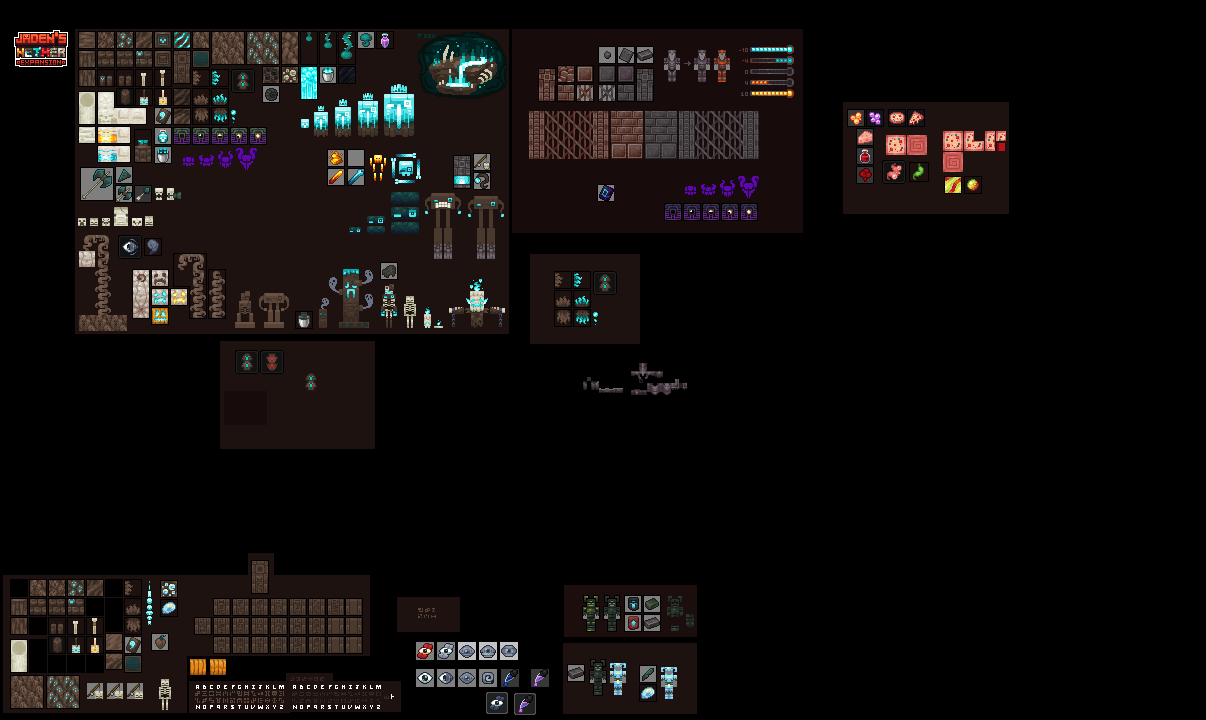
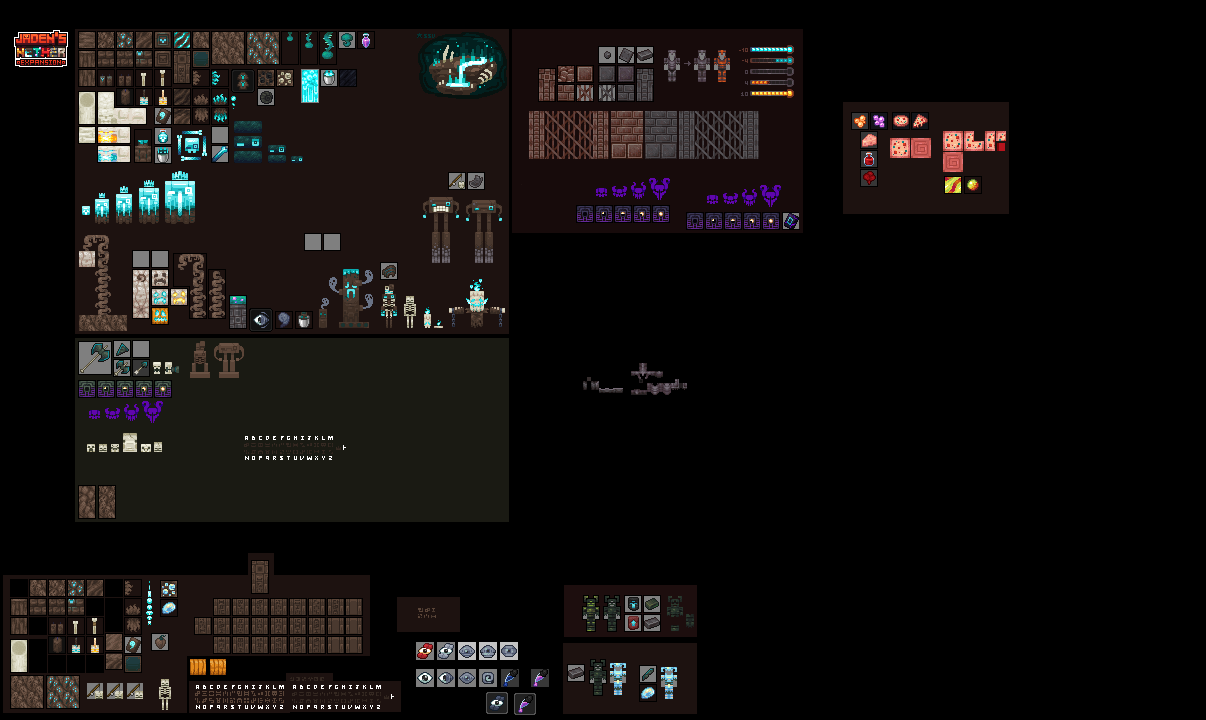
Glowing Textures & Cloth Config Fix
Added
-Glowmasks to certain Mobs

Changes
-Unbounded Speed's color has been made brighter
-Blightspores' texture was updated
-Geyser Cooldown Delay Ticks is now just Geyser Cooldown Ticks

Removed
-Opalized Fossil Ore

Fixes
-Cricket Music Disc now plays as intended
-Crash if you didn't have a Config API installed
-Crash when stacked soul swirls config was enabled (the config has been removed)

Frontend
-Nether Expansion sheet has been updated
-Stampede WIP Model is in frontend now

diff --git a/src/main/java/net/jadenxgamer/netherexp/registry/block/custom/SoulSwirlsBlock.java b/src/main/java/net/jadenxgamer/netherexp/registry/block/custom/SoulSwirlsBlock.java
@@ -23,6 +23,8 @@ import net.minecraft.util.math.random.Random;
 import net.minecraft.world.World;
 import net.minecraft.world.WorldView;
 
+import java.util.Objects;
+
 public class SoulSwirlsBlock
 extends AmethystClusterBlock
 implements Fertilizable {
@@ -37,12 +39,13 @@ implements Fertilizable {
     @SuppressWarnings("deprecation")
     @Override
     public void onEntityCollision(BlockState state, World world, BlockPos pos, Entity entity) {
-        if (!state.get(COOLDOWN) && entity instanceof LivingEntity) {
-            ((LivingEntity) entity).addStatusEffect(new StatusEffectInstance(ModStatusEffects.UNBOUNDED_SPEED, 1200, 0), entity);
+        if (!state.get(COOLDOWN) && entity instanceof LivingEntity && NetherExp.getConfig().blocks.soulSwirlsConfigs.soul_swirls_boosting) {
+            int d = NetherExp.getConfig().blocks.soulSwirlsConfigs.unbounded_speed_duration * 20;
+            ((LivingEntity) entity).addStatusEffect(new StatusEffectInstance(ModStatusEffects.UNBOUNDED_SPEED, d, 0), entity);
             swirlPopParticles(world, pos);
             world.playSound(null, pos.getX(), pos.getY(), pos.getZ(), ModSoundEvents.SOUL_SWIRLS_BOOST, SoundCategory.BLOCKS, 1.0f, 1.0f);
             world.setBlockState(pos, state.cycle(COOLDOWN), NOTIFY_LISTENERS);
-            world.scheduleBlockTick(pos, this, 1000);
+            world.scheduleBlockTick(pos, this, NetherExp.getConfig().blocks.soulSwirlsConfigs.soul_swirls_cooldown_ticks);
         }
     }
 

diff --git a/src/main/java/net/jadenxgamer/netherexp/registry/entity/custom/WispEntity.java b/src/main/java/net/jadenxgamer/netherexp/registry/entity/custom/WispEntity.java
@@ -2,6 +2,7 @@ package net.jadenxgamer.netherexp.registry.entity.custom;
 
 import net.jadenxgamer.netherexp.registry.item.ModItems;
 import net.minecraft.block.BlockState;
+import net.minecraft.entity.EntityGroup;
 import net.minecraft.entity.EntityType;
 import net.minecraft.entity.Flutterer;
 import net.minecraft.entity.LivingEntity;
@@ -21,7 +22,6 @@ import net.minecraft.entity.damage.DamageSource;
 import net.minecraft.entity.data.DataTracker;
 import net.minecraft.entity.data.TrackedData;
 import net.minecraft.entity.data.TrackedDataHandlerRegistry;
-import net.minecraft.entity.mob.HostileEntity;
 import net.minecraft.entity.passive.PassiveEntity;
 import net.minecraft.entity.player.PlayerEntity;
 import net.minecraft.item.ItemStack;
@@ -96,11 +96,16 @@ implements GeoEntity, Flutterer, Bottleable {
     }
 
     public static DefaultAttributeContainer.Builder setAttributes() {
-        return HostileEntity.createMobAttributes()
+        return PassiveEntity.createMobAttributes()
                 .add(EntityAttributes.GENERIC_MAX_HEALTH, 2.0)
                 .add(EntityAttributes.GENERIC_FLYING_SPEED, 1.2)
-                .add(EntityAttributes.GENERIC_MOVEMENT_SPEED, 0.8)
+                .add(EntityAttributes.GENERIC_MOVEMENT_SPEED, 0.4)
                 .add(EntityAttributes.GENERIC_FOLLOW_RANGE, 16.0);
+    }
+
+    @Override
+    public EntityGroup getGroup() {
+        return EntityGroup.UNDEAD;
     }
 
     @Nullable

diff --git a/src/main/java/net/jadenxgamer/netherexp/registry/config/NetherExpConfigs.java b/src/main/java/net/jadenxgamer/netherexp/registry/config/NetherExpConfigs.java
@@ -5,6 +5,7 @@ import me.shedaniel.autoconfig.annotation.Config;
 import me.shedaniel.autoconfig.annotation.ConfigEntry;
 import net.jadenxgamer.netherexp.NetherExp;
 import net.jadenxgamer.netherexp.registry.config.other.blocks.*;
+import net.jadenxgamer.netherexp.registry.config.other.gamemechanics.SoulSpeedConfigs;
 import net.jadenxgamer.netherexp.registry.config.other.modcompat.CinderscapesConfigs;
 import net.jadenxgamer.netherexp.registry.config.other.sounds.BlockSoundsConfigs;
 import net.jadenxgamer.netherexp.registry.config.other.worldgen.CrimsonForestConfigs;
@@ -49,6 +50,10 @@ public class NetherExpConfigs implements ConfigData {
         @ConfigEntry.Gui.CollapsibleObject()
         @ConfigEntry.Gui.Tooltip
         public RenewableConfigs renewableConfigs = new RenewableConfigs();
+
+        @ConfigEntry.Gui.CollapsibleObject()
+        @ConfigEntry.Gui.Tooltip
+        public SoulSwirlsConfigs soulSwirlsConfigs = new SoulSwirlsConfigs();
     }
 
     // ITEMS //
@@ -70,10 +75,9 @@ public class NetherExpConfigs implements ConfigData {
         @ConfigEntry.Gui.Tooltip
         public SoulSpeedConfigs soulSpeedConfigs = new SoulSpeedConfigs();
 
-
         @ConfigEntry.Gui.Tooltip
         @ConfigEntry.Gui.RequiresRestart
-        public boolean enable_unfinished_items = false;
+        public boolean enable_unfinished_items = true;
     }
 
     // SOUNDS //

diff --git a/src/main/java/net/jadenxgamer/netherexp/registry/item/ModItems.java b/src/main/java/net/jadenxgamer/netherexp/registry/item/ModItems.java
@@ -117,7 +117,7 @@ public class ModItems {
             new HangingSignItem(ModBlocks.SMOKESTALK_HANGING_SIGN, ModBlocks.SMOKESTALK_WALL_HANGING_SIGN, new FabricItemSettings().maxCount(16)));
 
     public static final Item MUSIC_DISC_CRICKET = registerItem("music_disc_cricket",
-            new MusicDiscItem(13, ModSoundEvents.MUSIC_DISC_CRICKET,new FabricItemSettings().maxCount(1).rarity(Rarity.RARE), 164));
+            new MusicDiscItem(13, ModSoundEvents.MUSIC_DISC_CRICKET, new FabricItemSettings().maxCount(1).rarity(Rarity.RARE), 164));
 
     private static Item registerItem(String name, Item item) {
         return Registry.register(Registries.ITEM, new Identifier(NetherExp.MOD_ID, name), item);

diff --git a/src/main/java/net/jadenxgamer/netherexp/registry/block/ModBlocks.java b/src/main/java/net/jadenxgamer/netherexp/registry/block/ModBlocks.java
@@ -108,9 +108,6 @@ public class ModBlocks {
     public static final Block FOSSIL_FUEL_ORE = registerBlock("fossil_fuel_ore",
             new ExperienceDroppingBlock(FabricBlockSettings.copyOf(Blocks.SOUL_SOIL).mapColor(MapColor.BROWN).strength(0.6f).sounds(BlockSoundGroup.SOUL_SOIL), UniformIntProvider.create(1, 3)));
 
-    public static final Block OPALIZED_FOSSIL_ORE = registerBlock("opalized_fossil_ore",
-            new ExperienceDroppingBlock(FabricBlockSettings.copyOf(Blocks.SOUL_SOIL).mapColor(MapColor.BROWN).strength(0.6f).sounds(BlockSoundGroup.SOUL_SOIL), UniformIntProvider.create(3, 7)));
-
     // Sorrowsquash
 
     public static final Block SORROWSQUASH = registerBlock("sorrowsquash",

diff --git a/src/main/java/net/jadenxgamer/netherexp/registry/entity/client/WispRenderer.java b/src/main/java/net/jadenxgamer/netherexp/registry/entity/client/WispRenderer.java
@@ -8,11 +8,13 @@ import net.minecraft.util.Identifier;
 import net.minecraft.util.math.BlockPos;
 import org.jetbrains.annotations.Nullable;
 import software.bernie.geckolib.renderer.GeoEntityRenderer;
+import software.bernie.geckolib.renderer.layer.AutoGlowingGeoLayer;
 
 public class WispRenderer extends GeoEntityRenderer<WispEntity> {
     public WispRenderer(EntityRendererFactory.Context ctx) {
         super(ctx, new WispModel());
         this.shadowRadius = 0.2f;
+        addRenderLayer(new AutoGlowingGeoLayer<>(this));
     }
     @Override
     public RenderLayer getRenderType(WispEntity animatable, Identifier texture, @Nullable VertexConsumerProvider bufferSource, float partialTick) {

diff --git a/src/main/java/net/jadenxgamer/netherexp/registry/block/custom/GeyserBlock.java b/src/main/java/net/jadenxgamer/netherexp/registry/block/custom/GeyserBlock.java
@@ -58,7 +58,7 @@ public class GeyserBlock extends Block {
             world.playSound(pos.getX(),pos.getY(),pos.getZ(), SoundEvents.BLOCK_LAVA_EXTINGUISH, SoundCategory.BLOCKS, 1.0f, 1.0f, false);
             if (NetherExp.getConfig().blocks.geyserConfigs.geyser_cooldown) {
                 world.setBlockState(pos, state.cycle(COOLDOWN), NOTIFY_LISTENERS);
-                world.scheduleBlockTick(pos, this, NetherExp.getConfig().blocks.geyserConfigs.geyser_cooldown_delay_ticks);
+                world.scheduleBlockTick(pos, this, NetherExp.getConfig().blocks.geyserConfigs.geyser_cooldown_ticks);
             }
         }
     }

diff --git a/src/main/java/net/jadenxgamer/netherexp/registry/config/other/blocks/SoulSwirlsConfigs.java b/src/main/java/net/jadenxgamer/netherexp/registry/config/other/blocks/SoulSwirlsConfigs.java
@@ -2,14 +2,14 @@ package net.jadenxgamer.netherexp.registry.config.other.blocks;
 
 import me.shedaniel.autoconfig.annotation.ConfigEntry;
 
-public class GeyserConfigs {
+public class SoulSwirlsConfigs {
 
     @ConfigEntry.Gui.Tooltip
-    public boolean geyser_deals_damage = true;
+    public boolean soul_swirls_boosting = true;
 
     @ConfigEntry.Gui.Tooltip
-    public boolean geyser_cooldown = true;
+    public int soul_swirls_cooldown_ticks = 1000;
 
     @ConfigEntry.Gui.Tooltip
-    public int geyser_cooldown_ticks = 100;
+    public int unbounded_speed_duration = 10;
 }

diff --git a/src/main/java/net/jadenxgamer/netherexp/registry/effect/ModStatusEffects.java b/src/main/java/net/jadenxgamer/netherexp/registry/effect/ModStatusEffects.java
@@ -13,7 +13,7 @@ public class ModStatusEffects {
             new FogSightEffect(StatusEffectCategory.BENEFICIAL, 10442064));
 
     public static final StatusEffect UNBOUNDED_SPEED = registerStatusEffect("unbounded_speed",
-            new UnboundedSpeed(StatusEffectCategory.BENEFICIAL, 1717297));
+            new UnboundedSpeed(StatusEffectCategory.BENEFICIAL, 1787717));
 
     private static StatusEffect registerStatusEffect(String name, StatusEffect entry) {
         return Registry.register(Registries.STATUS_EFFECT, new Identifier(NetherExp.MOD_ID, name), entry);

diff --git a/src/main/java/net/jadenxgamer/netherexp/registry/config/ModMenuIntegration.java b/src/main/java/net/jadenxgamer/netherexp/registry/config/ModMenuIntegration.java
@@ -3,7 +3,10 @@ package net.jadenxgamer.netherexp.registry.config;
 import com.terraformersmc.modmenu.api.ConfigScreenFactory;
 import com.terraformersmc.modmenu.api.ModMenuApi;
 import me.shedaniel.autoconfig.AutoConfig;
+import net.fabricmc.api.EnvType;
+import net.fabricmc.api.Environment;
 
+@Environment(EnvType.CLIENT)
 public class ModMenuIntegration implements ModMenuApi {
 
     @Override

diff --git a/src/main/java/net/jadenxgamer/netherexp/registry/item/ModItemGroup.java b/src/main/java/net/jadenxgamer/netherexp/registry/item/ModItemGroup.java
@@ -37,7 +37,6 @@ public class ModItemGroup {
 
                         entries.add(ModBlocks.FOSSIL_ORE);
                         entries.add(ModBlocks.FOSSIL_FUEL_ORE);
-                        entries.add(ModBlocks.OPALIZED_FOSSIL_ORE);
                         entries.add(ModItems.FOSSIL_FUEL);
 
                         entries.add(ModItems.NECRO_SHARD);

diff --git a/src/main/java/net/jadenxgamer/netherexp/registry/config/other/gamemechanics/SoulSpeedConfigs.java b/src/main/java/net/jadenxgamer/netherexp/registry/config/other/gamemechanics/SoulSpeedConfigs.java
@@ -1,4 +1,4 @@
-package net.jadenxgamer.netherexp.registry.config.other.blocks;
+package net.jadenxgamer.netherexp.registry.config.other.gamemechanics;
 
 import me.shedaniel.autoconfig.annotation.ConfigEntry;
 
